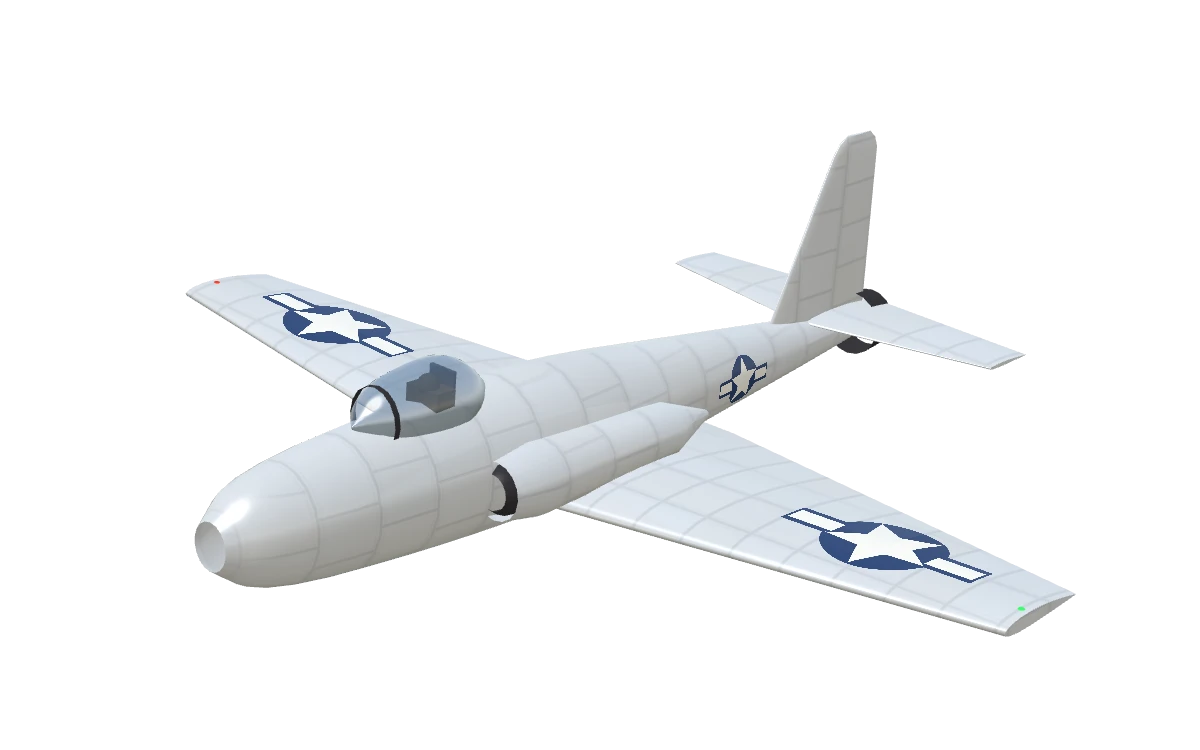
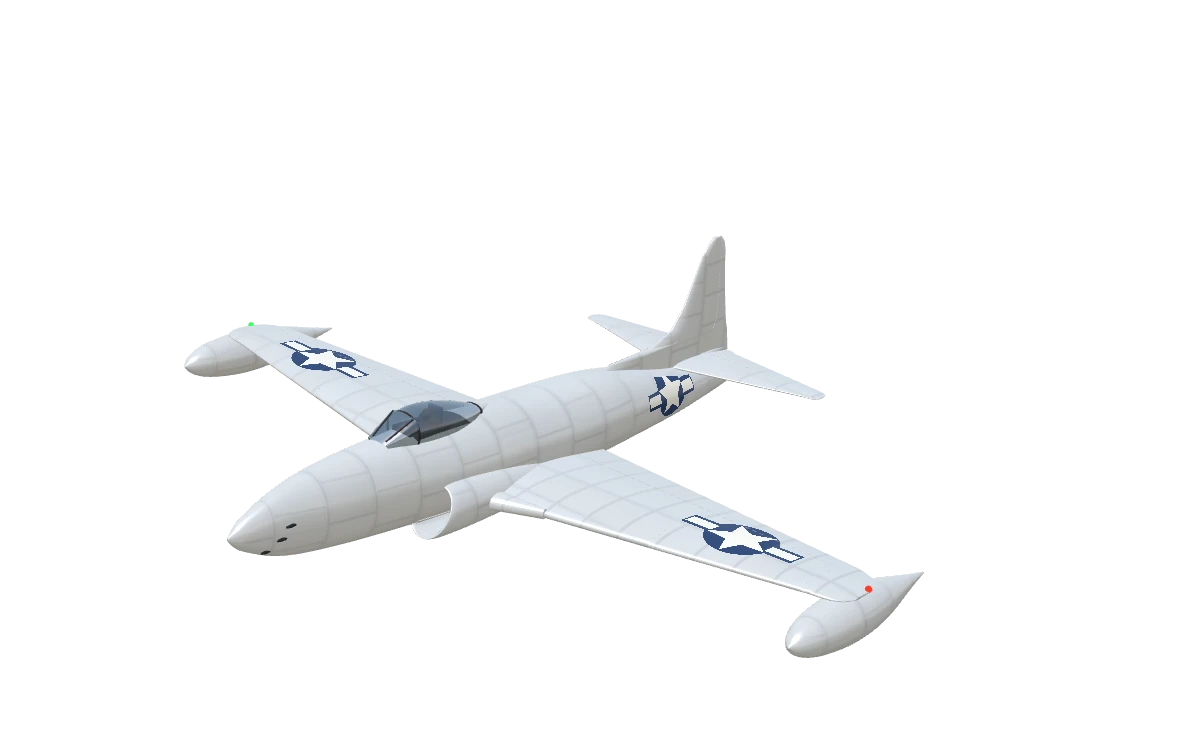
F-80C ayrıntılı model: üç görünüş çiziminden gövde, eğik yan hava girişleri, sabit uç tankları
- Sivri kapalı burun ve silah ağızları, alçalan arka gövde ve uzun sırt yüzgeci
- sideIntake: gövde yanı hava girişi; controlWing roundTip katsayı aldı (yuvarlak uçların boyu)
- Hareketli kumanda yüzeyleri, ön karında hava frenleri, katlanır takım, ışıklar
- gearHeight çizime göre; ansiklopedi görselleri yenilendi

Changed region(s): [[0.1542, 0.1533, 0.8942, 0.8893]]

diff --git a/src/render/models.ts b/src/render/models.ts
@@ -21,7 +21,7 @@ type Geo = THREE.BufferGeometry;
 let DETAIL = 1;
 /** Yüksek ayrıntıda ek çözünürlük çarpanı (videosu çekilen uçaklarda daha çok kenar ve profil noktası). */
 let RES = 1;
-const HIRES: Record<string, number> = { mig15: 2.4, sabre: 1.6, f84: 1.6 };
+const HIRES: Record<string, number> = { mig15: 2.4, sabre: 1.6, f84: 1.6, p80: 1.6 };
 /** Dönel parçaların kenar sayısı ayrıntıya göre. */
 const sg = (n: number) => (DETAIL ? Math.round(n * 2.25 * RES) : n);
 
@@ -533,9 +533,9 @@ function hingeStrip(secs: Section[], thick: THREE.Vector3, xh: number): Geo {
  * Kumanda yüzeyli kanat ya da yatay kuyruk (iki yan). parts: açıklık parçaları [f0, f1, ad]: adlı parçada veterin
  * xh'tan arkası eklem (ad + 'L' sol/+x, 'R'; menteşe ekseni iki yanda da +x'e bakar, pozitif açı firar kenarını
  * kaldırır), önü sabit; ad null ise tam veter (kumanda yüzeyleri arası, uç). İki parça aynı profilden kesilir.
- * roundTip: uçta düz kapak yerine yuvarlanan kısa parça (son f = 1 olmalı).
+ * roundTip: uçta düz kapak yerine yuvarlanan parça, boyu katsayıyla (son f = 1 olmalı; 0 düz kapak).
  */
-function controlWing(w: WingOpts, xh: number, parts: [number, number, string | null][], roundTip = false): Geo[] {
+function controlWing(w: WingOpts, xh: number, parts: [number, number, string | null][], roundTip = 0): Geo[] {
   const up = new THREE.Vector3(0, 1, 0);
   const out: Geo[] = [];
   for (const s of [1, -1]) {
@@ -554,7 +554,7 @@ function controlWing(w: WingOpts, xh: number, parts: [number, number, string | n
       const t = taperSec(w, 1, s);
       // Uç kesitinden dışa: veter hücum kenarından da firar kenarından da kısalır, kalınlık incelir
       const cap = ([dx, cm, back, tm]: number[]): Section => ({
-        le: new THREE.Vector3(t.le.x + s * dx * t.c, t.le.y, t.le.z - t.c * back), c: t.c * cm, t: t.t * tm,
+        le: new THREE.Vector3(t.le.x + s * dx * roundTip * t.c, t.le.y, t.le.z - t.c * back), c: t.c * cm, t: t.t * tm,
       });
       out.push(airfoilPart([t, ...[[0.018, 0.96, 0.012, 0.86], [0.04, 0.86, 0.05, 0.66], [0.056, 0.68, 0.13, 0.44], [0.066, 0.4, 0.27, 0.22]].map(cap)], up, 0, 1));
     }
@@ -955,6 +955,30 @@ const portAt = (x: number, y: number, z: number, h: number, l: number) =>
   tag(new THREE.SphereGeometry(1, sg(3), sg(2)).scale(0.018, h, l).translate(x, y, z), 'dark');
 
 /**
+ * Gövde yanı hava girişi (iki yan): kanaldan dudağa dönüp arkaya kanat köküne inen çıkıntı, içinde koyu kanal. rake:
+ * ağız eğimi (üst dudak bu kadar geride; birim yükseklik başına), z0'ın gerisine etki etmez. İç yarısı gövdeye gömülür.
+ */
+function sideIntake(x: number, secs: JetSec[], duct: JetSec[], rake: number, z0: number): Geo[] {
+  const zf = Math.max(...secs.map((q) => q[0]));
+  const yc = secs[0][4];
+  const shear = (g: Geo) => {
+    const p = g.getAttribute('position');
+    for (let i = 0; i < p.count; i++) {
+      const k = Math.min(1, Math.max(0, (p.getZ(i) - z0) / (zf - z0)));
+      p.setZ(i, p.getZ(i) - rake * (p.getY(i) - yc) * k);
+    }
+    g.computeVertexNormals();
+    return g;
+  };
+  const dh = new JetHull(duct, 2.1, false);
+  return [1, -1].flatMap((sd) => [
+    shear(new JetHull(secs, 2.1).geo(10)).translate(sd * x, 0, 0),
+    tag(shear(dh.geo(10)).translate(sd * x, 0, 0), 'dark'),
+    tag(shear(dh.disc(duct[0][0], 1, 10)).translate(sd * x, 0, 0), 'dark'),
+  ]);
+}
+
+/**
  * Damla kanopi: öndeki köşeli ön cam, sürgülü kapağın kavisli camı, arkasında gövdeye inen metal bitiş. Çerçeveler
  * (ön cam dikmeleri ve kavisi, kapakta verilen z'ler) koyu, cam kesitinin biraz dışında. Pilot ve gösterge paneli
  * cached()'te canopySink'teki kayda göre yerleşir.
@@ -1070,6 +1094,15 @@ function thunderjetGear(gh: number): Geo[] {
     main: { x: 2.78, z: -0.54, top: -0.22, axle: -gh + 0.36, rw: 0.36, tw: 0.2, dx: 0.06, door: { dx: 0.13, top: -0.24, bot: -1.16, w: 0.78, r: 0.28 } },
     nose: { topY: -0.38, topZ: 4.5, axle: -gh + 0.25, z: 4.98, rw: 0.25, tw: 0.14 },
     belly: { x: 0.3, y: -0.6, z0: 4.25, z1: 2.85, h: 0.24 },
+  });
+}
+
+/** F-80C takımı: 2,65 m iz, geniş kapaklı ana bacak, burun tekerleği kokpitin önünde. */
+function shootingStarGear(gh: number): Geo[] {
+  return jetGear({
+    main: { x: 1.33, z: -0.21, top: -0.35, axle: -gh + 0.345, rw: 0.345, tw: 0.18, dx: 0.08, door: { dx: 0.12, top: -0.42, bot: -1.0, w: 0.66, r: 0.16 } },
+    nose: { topY: -0.46, topZ: 3.25, axle: -gh + 0.28, z: 3.37, rw: 0.28, tw: 0.15 },
+    belly: { x: 0.24, y: -0.58, z0: 3.3, z1: 2.35, h: 0.2 },
   });
 }
 
@@ -1335,9 +1368,9 @@ function defineModel(key: string): ModelDef {
             pilot: { z: 2.35, len: 1.7, h: 0.42, y: 0.86, w: 0.42 },
           }),
           // Kanat: flap açıklığın yarısına, sonra kanatçık; uç yuvarlak. Çit üst yüzde, hücum kenarından veterin ortasına
-          ...controlWing(W, 0.72, [[-0.1, 0.455, 'flap'], [0.455, 0.47, null], [0.47, 0.95, 'aileron'], [0.95, 1, null]], true),
+          ...controlWing(W, 0.72, [[-0.1, 0.455, 'flap'], [0.455, 0.47, null], [0.47, 0.95, 'aileron'], [0.95, 1, null]], 1),
           ...mirror(fenceX, (x) => wingFence(x, fenceSec)),
-          ...controlWing(T, 0.68, [[0, 0.96, 'elevator'], [0.96, 1, null]], true),
+          ...controlWing(T, 0.68, [[0, 0.96, 'elevator'], [0.96, 1, null]], 1),
           ...jetFin([[0.55, -3.02, 2.3], [0.85, -3.29, 2.11], [1.05, -3.46, 1.95], [1.4, -3.77, 1.75], [2.0, -4.31, 1.38], [2.55, -4.79, 1.04], [2.76, -4.96, 0.9], [2.86, -5.1, 0.72], [2.89, -5.28, 0.42]], 0.15, 0.7, 2, 5),
           // Sırt yüzgeci: gövdeden dikey kuyruğun hücum kenarına kavisle kalkar
           airfoilPart([[0.7, -1.9, 1.7], [0.9, -2.62, 1.0], [1.02, -3.12, 0.55], [1.12, -3.53, 0.2]].map(([y, le, c]) => ({ le: new THREE.Vector3(0, y, le), c, t: 0.1 })), new THREE.Vector3(1, 0, 0), 0, 1),
@@ -1537,7 +1570,7 @@ function defineModel(key: string): ModelDef {
             tank(1), tank(-1),
             ...[1, -1].flatMap((s) => [new THREE.BoxGeometry(0.34, 0.012, 0.36).translate(s * 5.97, 0.22, -2.4), new THREE.BoxGeometry(0.012, 0.34, 0.36).translate(s * 5.97, 0.22, -2.4)]),
           ], true),
-          ...controlWing(T, 0.68, [[0, 0.96, 'elevator'], [0.96, 1, null]], true),
+          ...controlWing(T, 0.68, [[0, 0.96, 'elevator'], [0.96, 1, null]], 1),
           ...jetFin([[0.49, -3.95, 2.6], [0.6, -4.2, 2.33], [0.7, -4.42, 2.09], [1.03, -4.72, 1.75], [1.64, -5.06, 1.34], [2.3, -5.38, 0.88], [2.54, -5.54, 0.61], [2.6, -5.62, 0.45], [2.65, -5.74, 0.2]], 0.14, 0.72, 2, 5),
           // Yatay kuyruğun dikey kuyruktaki kaportası
           body([[-4.6, 0.01], [-4.85, 0.1], [-5.6, 0.11], [-6.05, 0.02]], 8, { y: 0.78, sy: 0.6, smooth: true }),
@@ -2007,21 +2040,71 @@ function defineModel(key: string): ModelDef {
         ],
         props: [],
       };
-    case 'p80':
+    case 'p80': {
+      // F-80C, ölçüler üç görünüş çiziminden. Sivri, kapalı burun (altı makineli tüfek), kanat köküne inen eğik yan hava
+      // girişleri, kuyruğa doğru alçalan gövde ve uzun sırt yüzgeci, yuvarlak uçlu dikey ve yatay kuyruk. Kanat kökünde
+      // hücum kenarı öne genişler. Uçlarda altta sabit tanklar (Kore'de hep tanklı uçtu). Hava frenleri ön karında.
+      const H = new JetHull([
+        [5.0, 0.01, 0.0, -0.04, -0.02], [4.91, 0.08, 0.09, -0.15, -0.03], [4.78, 0.16, 0.2, -0.25, -0.03], [4.23, 0.29, 0.45, -0.5, -0.02],
+        [3.54, 0.48, 0.58, -0.575, -0.02], [2.48, 0.59, 0.67, -0.64, -0.02], [1.33, 0.7, 0.69, -0.66, -0.02], [-0.35, 0.71, 0.69, -0.67, -0.02],
+        [-1.61, 0.725, 0.655, -0.63, -0.02], [-2.48, 0.61, 0.575, -0.585, -0.02], [-3.63, 0.48, 0.32, -0.495, -0.08], [-4.42, 0.35, 0.26, -0.41, -0.07],
+        [-5.13, 0.27, 0.23, -0.29, -0.03], [-5.38, 0.215, 0.215, -0.235, -0.01], [-5.42, 0.205, 0.205, -0.225, -0.01],
+      ], 2.1);
+      const W: WingOpts = { x0: 1.7, z: 0.96, root: 2.33, y: -0.27, tipX: 5.73, tip: 1.08, sweep: 0.61, dihedral: 3, t: 0.3 };
+      const T: WingOpts = { x0: 0.1, z: -3.77, root: 1.38, y: 0.31, tipX: 2.19, tip: 0.42, sweep: 0.66, dihedral: 0, t: 0.12 };
+      const up = new THREE.Vector3(0, 1, 0);
+      const tank = (sd: number) => body([[1.19, 0.001], [1.06, 0.16], [0.71, 0.29], [0, 0.365], [-0.71, 0.3], [-1.42, 0.12], [-1.93, 0.01]], 9, { x: sd * 6.05, y: -0.4, smooth: true });
+      const pipe = new JetHull([[-5.41, 0.188, 0.188, -0.208, -0.01], [-4.9, 0.165, 0.165, -0.185, -0.01]], 2.05, false);
+      const mid = -Math.PI / 2;
       return {
         solids: [
-          fuselage({ noseZ: 5.3, tailZ: -5.3, r: 0.75, sy: 1.12, noseR: 0.3, peak: 0.42, rise: 0 }),
-          tag(body([[-5.0, 0.4], [-5.4, 0.36]], 8), 'dark'),
-          canopy(2.6, 1.9, 0.48, 0.76, 0.44, true),
-          // Gövde yanı hava alıkları
-          ...mirror(0.72, (x) => body([[2.2, 0.32], [1.7, 0.4], [-0.5, 0.3], [-1.2, 0.05]], 7, { x, y: -0.05 })),
-          ...mirror(0.72, (x) => tag(body([[2.25, 0.2], [2.15, 0.27], [1.9, 0.3]], 7, { x, y: -0.05 }), 'dark')),
-          ...wing({ x0: 0.7, z: 1.3, root: 3.1, y: -0.45, tipX: 5.9, tip: 1.3, sweep: 0.5, dihedral: 4, t: 0.36 }),
-          ...wing({ x0: 0.1, z: -3.9, root: 1.5, y: 0.25, tipX: 2.4, tip: 0.8, sweep: 0.5, dihedral: 0, t: 0.11 }),
-          ...fins({ y0: 0.5, z0: -3.2, h: 2.0, root: 2.0, tip: 0.8, sweep: 1.1, t: 0.13 }),
+          H.geo(12),
+          tag(pipe.geo(12), 'dark'),
+          tag(pipe.disc(-4.9, -1, 12), 'dark'),
+          tag(new THREE.ConeGeometry(0.09, 0.26, sg(10)).rotateX(-Math.PI / 2).translate(0, -0.01, -5.05), 'dark'),
+          ...sideIntake(0.6, [
+            [1.4, 0.25, -0.05, -0.56, -0.31], [1.85, 0.27, -0.03, -0.59, -0.31], [1.96, 0.29, -0.01, -0.61, -0.31], [2.02, 0.325, 0.02, -0.635, -0.31], [1.99, 0.355, 0.05, -0.655, -0.31],
+            [1.8, 0.375, 0.07, -0.67, -0.31], [1.25, 0.375, 0.06, -0.66, -0.31], [0.5, 0.33, 0.0, -0.62, -0.31], [-0.2, 0.2, -0.12, -0.5, -0.31], [-0.7, 0.03, -0.27, -0.35, -0.31],
+          ], [[0.85, 0.22, -0.09, -0.52, -0.31], [1.42, 0.245, -0.055, -0.555, -0.31]], 0.55, 0.2),
+          ...[1, -1].flatMap((sd) => [[-0.28, 4.5], [-0.12, 4.32], [0.05, 4.2]].map(([y, z]) => portAt(sd * H.sideX(z, y), y, z, 0.026, 0.11))),
+          tag(H.patch(1, 1.95, 1.0, Math.PI / 2 - 0.38, Math.PI / 2 + 0.38, 0.006), 'dark'),
+          ...jetCanopy({
+            screen: [[2.48, 0.2, 0.69, 0.35, 0.66], [2.02, 0.31, 0.965, 0.35, 0.72]],
+            glass: [[2.02, 0.31, 0.965, 0.35, 0.72], [1.73, 0.35, 1.01, 0.35, 0.72], [1.3, 0.35, 0.95, 0.35, 0.72], [0.9, 0.26, 0.84, 0.35, 0.72], [0.66, 0.15, 0.755, 0.35, 0.7]],
+            aft: [[0.7, 0.165, 0.77, 0.35, 0.7], [0.55, 0.09, 0.72, 0.35, 0.68], [0.38, 0.02, 0.69, 0.4, 0.66]],
+            frames: [2.02, 0.68],
+            posts: [[0.13, 0.7, 2.46], [0.2, 0.94, 2.04]],
+            pilot: { z: 1.65, len: 1.4, h: 0.34, y: 0.68, w: 0.35 },
+          }),
+          // Kanat: kökten (gövde içinden) flap, kanatçık; uç yuvarlak. Kökte hücum kenarının öne genişlemesi ayrı parça
+          ...controlWing(W, 0.75, [[-0.3, 0.417, 'flap'], [0.417, 0.43, null], [0.43, 0.97, 'aileron'], [0.97, 1, null]], 7),
+          ...[1, -1].map((sd) => airfoilPart([
+            { le: new THREE.Vector3(sd * 0.6, -0.33, 1.4), c: 0.75, t: 0.26 },
+            { le: new THREE.Vector3(sd * 1.72, -0.27, 0.97), c: 0.12, t: 0.15 },
+          ], up, 0, 1)),
+          ...joint('ucTank', [0, 0, 0], [tank(1), tank(-1)], true),
+          ...controlWing(T, 0.64, [[0, 0.96, 'elevator'], [0.96, 1, null]], 8),
+          ...jetFin([[0.25, -1.77, 3.57], [0.66, -2.26, 3.0], [0.72, -3.27, 1.96], [0.92, -3.76, 1.42], [1.27, -4.04, 1.07], [1.8, -4.29, 0.73], [2.04, -4.4, 0.6], [2.2, -4.53, 0.42], [2.31, -4.65, 0.2]], 0.16, 0.79, 2, 6),
+          body([[-3.75, 0.01], [-4.0, 0.08], [-4.8, 0.09], [-5.2, 0.015]], 8, { y: 0.31, sy: 0.7, smooth: true }),
+          // Hava frenleri: ön karında yan yana iki kapak, ön kenarından menteşeli, firar kenarı iner
+          ...[1, -1].flatMap((sd) => {
+            const [a0, a1, zf, zb] = [mid + 0.08, mid + 0.8, 2.1, 0.95];
+            return [
+              tag(H.patch(sd, zf - 0.03, zb + 0.03, a0 + 0.02, a1 - 0.02, 0.004), 'dark'),
+              ...joint(sd > 0 ? 'airbrakeL' : 'airbrakeR', H.pt(zf, (a0 + a1) / 2, 0.02, sd), [H.patch(sd, zf, zb, a0, a1, 0.012, -0.012)], false, [sd, 0, 0]),
+            ];
+          }),
         ],
         props: [],
+        markZ: -3.3,
+        lights: [
+          { p: [6.2, -0.03, -0.28], kind: 'red' },
+          { p: [-6.2, -0.03, -0.28], kind: 'green' },
+          { p: [0, 1.6, -5.07], kind: 'white' },
+          { p: [0, -0.85, 3.4], kind: 'landing' },
+        ],
       };
+    }
     case 'vampire': {
       const bx = 1.75;
       return {
@@ -2338,6 +2421,7 @@ function landingGear(probe: Probe, bb: THREE.Box3, spec: AircraftSpec | undefine
   if (kind === 'mig15') return migGear(gearHeight(spec));
   if (kind === 'sabre') return sabreGear(gearHeight(spec));
   if (kind === 'f84') return thunderjetGear(gearHeight(spec));
+  if (kind === 'p80') return shootingStarGear(gearHeight(spec));
   const gh = spec.span > 25 ? 3.4 : spec.engines > 1 ? 2.6 : 1.9;
   const half = bb.max.x;
   const tricycle = !spec.tailDragger;

diff --git a/src/sim/aircraft/flightModel.ts b/src/sim/aircraft/flightModel.ts
@@ -76,6 +76,7 @@ export function gearHeight(spec: AircraftSpec): number {
   // Çizimden: F-86 ve F-84 de kısa takımlı (karın yerden ~0,85 m)
   if (spec.id === 'f86f') return 1.72;
   if (spec.id === 'f84g') return 1.62;
+  if (spec.id === 'f80c') return 1.45;
   return spec.span > 25 ? 3.4 : spec.engines > 1 ? 2.6 : 1.9;
 }
 
